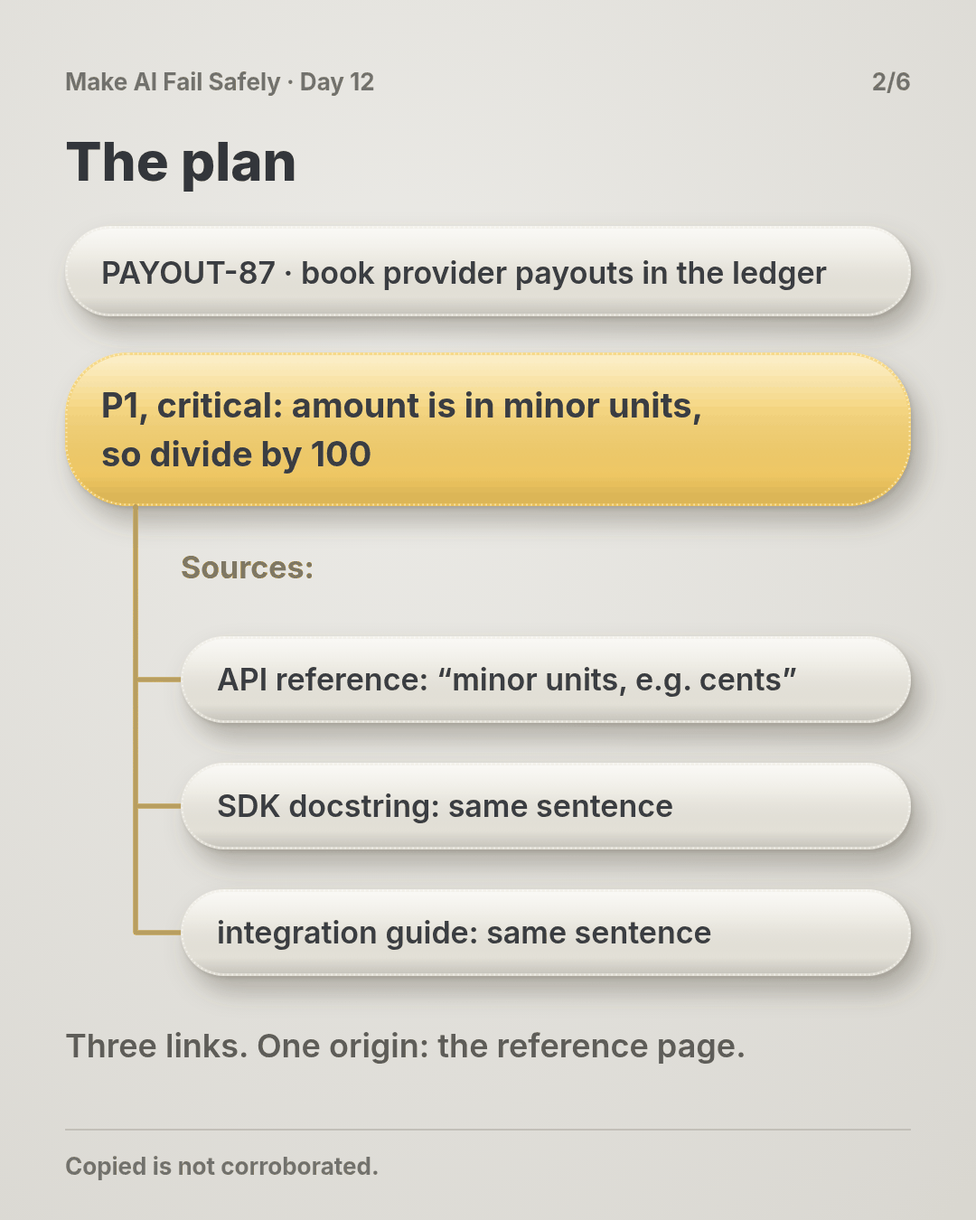
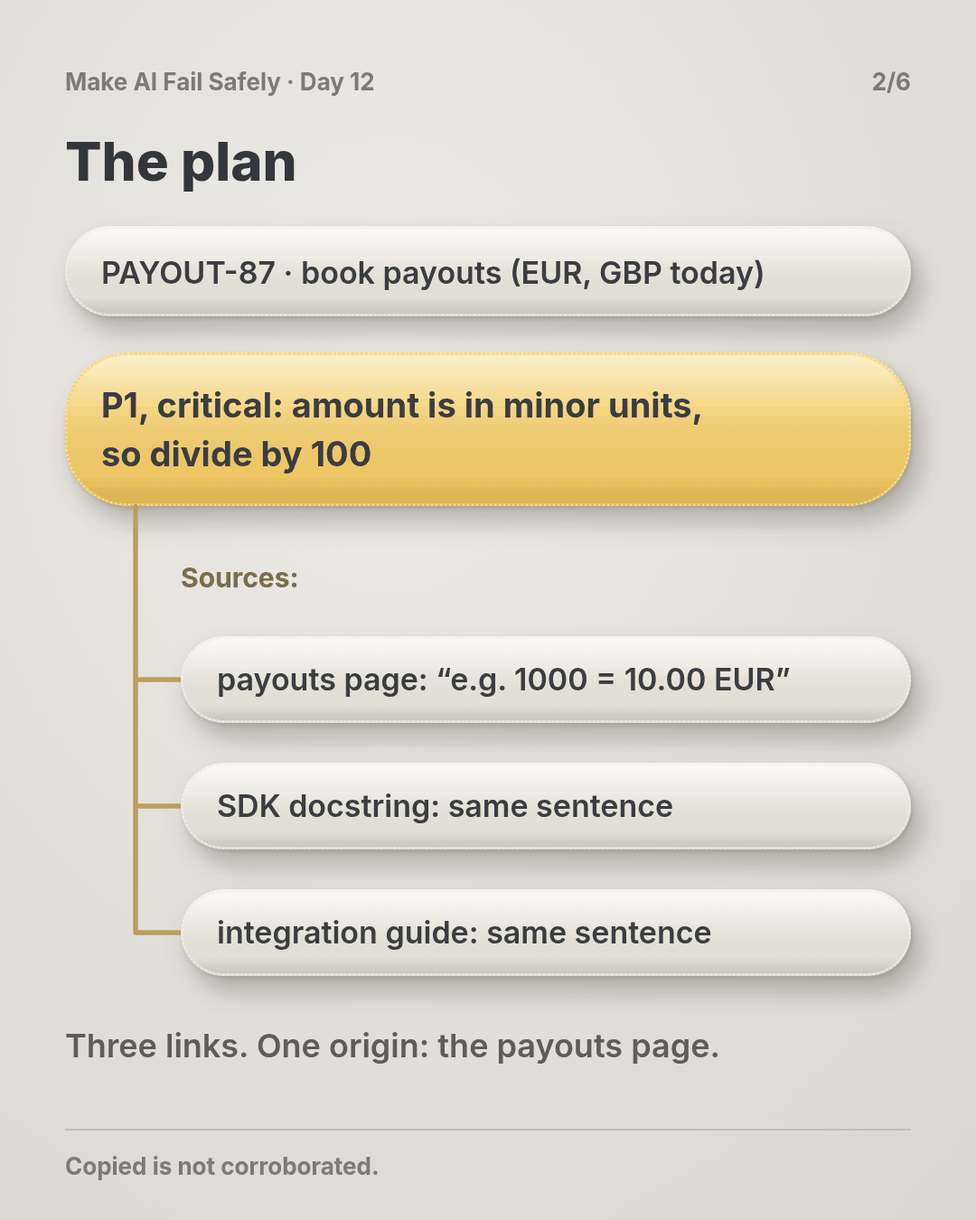
Day 12: review fixes (plausible story, 1/100 gap, system source, risk acceptance, no Day 6 echo)

diff --git a/courses/make-ai-fail-safely/practice/day-12-same-source-twice/corroborate.py b/courses/make-ai-fail-safely/practice/day-12-same-source-twice/corroborate.py
@@ -1,13 +1,16 @@
 #!/usr/bin/env python3
 """Corroboration check for critical premises: two sources count as two only if
-they have different origins, and at least one observed the real system.
+they have different origins, and at least one is output from the real system.
 
 Usage: python3 corroborate.py plan.json [premise_id]
 plan.json:
   {"premises": {"P1": {"claim": "...", "critical": true, "sources": [
       {"ref": "API reference /payouts", "origin": "provider API reference", "kind": "doc"},
-      {"ref": "sandbox payout po_3 response", "origin": "sandbox call", "kind": "observed"}]}}}
+      {"ref": "sandbox payout po_3 response", "origin": "sandbox call", "kind": "system"}]}}}
 "origin" is where the text or value ultimately came from, not where you read it.
+Optional "risk_accepted_by": "<name>" on a premise stands in for the system source
+when the system can't be checked safely. Origins are what you write down: the script
+counts them; deciding that two sources are really one is your job.
 Exit 0 if every checked premise passes, 1 otherwise. No dependencies.
 Failures print Day 9's shape: BLOCKED: <rule> | found: <...> | need: <...>
 """
@@ -18,12 +21,12 @@ def check(pid, p):
     if not p.get("critical"):
         return None if srcs else ("premise unsourced", f"{pid} has no source", "one source you can open")
     origins = {s.get("origin", "").strip().lower() for s in srcs if s.get("origin", "").strip()}
-    observed = [s for s in srcs if s.get("kind") == "observed"]
-    if len(origins) < 2:
+    system = [s for s in srcs if s.get("kind") == "system"]
+    if len(origins) < 2 and not p.get("risk_accepted_by"):
         o = ", ".join(sorted(origins)) or "none"
         return ("critical premise has one origin", f"{pid}: {len(srcs)} source(s), origin: {o}", "a source with a different origin")
-    if not observed:
-        return ("critical premise never observed", f"{pid}: {len(origins)} origins, all descriptions", "one observation of the real system")
+    if not system and not p.get("risk_accepted_by"):
+        return ("critical premise never checked in the system", f"{pid}: {len(origins)} origins, all docs", "one system output, or a named person accepting the risk")
     return None
 
 def main():
@@ -41,7 +44,12 @@ def main():
             ok = False
             print(f"{pid}: BLOCKED: {r[0]} | found: {r[1]} | need: {r[2]}")
         else:
-            print(f"{pid}: corroborated" if p.get("critical") else f"{pid}: sourced")
+            if not p.get("critical"):
+                print(f"{pid}: sourced")
+            elif p.get("risk_accepted_by"):
+                print(f"{pid}: risk accepted by {p['risk_accepted_by']} (not corroborated)")
+            else:
+                print(f"{pid}: corroborated")
     sys.exit(0 if ok else 1)
 
 if __name__ == "__main__":

diff --git a/courses/make-ai-fail-safely/day-12.md b/courses/make-ai-fail-safely/day-12.md
@@ -6,82 +6,82 @@
 
 Day 11 made a premise KNOWN on one source you can open. Today: when one isn't enough, what counts as a second.
 
-**A second source counts only if it could have disagreed.** For premises that move money or data, you or the agent will "double-check". The check usually finds more pages saying the same thing, and agreement feels like proof. But an SDK comment, an integration guide and a forum answer are often the same sentence copied from one place. Call that place the source's **origin**: where the words or the value first came from, not where you read them. Three sources with one origin are one source, read three times. You'll see a payout integration whose key premise had three matching sources and was still wrong for one currency, then the check that catches it: count origins, not links, and for a critical premise require one source that observed the real system.
+**A second source counts only if it could have disagreed.** For premises that move money or data, you or the agent will look for more sources. You'll usually find them, and agreement feels like proof. But an SDK comment, an integration guide and a forum answer are often one sentence copied from one page. Call that page the source's **origin**: where the words or the value first came from, not where you read them. Three sources with one origin are one source, read three times. You'll see a payout integration whose key premise had three matching sources and was still wrong for a currency added later, then the check that catches it: count origins, not links, and for a critical premise require one source from the real system.
 
 ## See it
 
 One premise. Two ways to confirm it.
 
-![Premise P1: payout amount is in minor units, divide by 100. Red path: three sources, API reference, SDK docstring, integration guide, all copied from one page; the JPY payout of 5,000 yen is booked as 50 yen. Green path: two origins, the doc plus a sandbox payout; JPY amount 5000 means 5,000 yen; divide by 10 to the currency's exponent.](./day-12.svg)
+![Premise P1: payout amount is in minor units, divide by 100. Red path: three sources, all copied from the payouts page; JPY payouts are booked at 1/100 of their value. Green path: two origins, the docs plus a real JPY payout; amount 5000 means 5,000 yen; use the currency's decimals.](./day-12.svg)
 
 ```mermaid
 flowchart TB
-  P["P1: amount in minor units, divide by 100"] --> L["Checked: 3 sources, 1 origin"]
-  P --> G["Checked: 2 origins, one observed"]
-  L --> W["JPY payout 5,000 yen booked as 50 yen"]
-  G --> S["Sandbox: JPY amount 5000 = 5,000 yen. Divide by 10^exponent."]
+  P["P1: amount in minor units, divide by 100"] --> L["Checked: 3 sources, 1 origin (payouts page)"]
+  P --> G["Checked: 2 origins, one from the real system"]
+  L --> W["JPY enabled later: every payout booked at 1/100"]
+  G --> S["Sandbox JPY payout: 5000 = 5,000 yen. Use the currency's decimals."]
 ```
 
 ```text
-P1  payout amount is in minor units, divide by 100       critical
-    API reference /payouts      origin: provider API reference   doc
-    SDK docstring Payout.amount origin: provider API reference   doc
-    integration guide, step 4   origin: provider API reference   doc
-    -> 3 sources, 1 origin, 0 observed: BLOCKED
+P1  payout amount is in minor units, divide by 100        critical
+    payouts page: "minor units, e.g. 1000 = 10.00 EUR"   origin: payouts page   doc
+    SDK docstring Payout.amount                         origin: payouts page   doc
+    integration guide, step 4                           origin: payouts page   doc
+    -> 3 sources, 1 origin, 0 from the system: BLOCKED
 ```
 
 ## Story
 
 You pick up a ticket and paste it into your agent in full:
 
-> **PAYOUT-87: Book provider payouts in the ledger.** Our payment provider pays out daily per currency (EUR, GBP, JPY). Poll `GET /payouts`, and for each new payout write a ledger entry with the amount in major units (euros, pounds, yen) so finance can match it to the bank statement. Premises that move money are critical: confirm them with more than one source.
+> **PAYOUT-87: Book provider payouts in the ledger.** Our payment provider pays out daily, one payout per currency. Poll `GET /payouts` and, for each new payout, write a ledger entry with the amount in major units (euros, pounds) so finance can match it to the bank statement. Cover every currency our account is paid out in; today that's EUR and GBP. Payout amounts must match the bank statement to the unit.
 
-The agent plans, and lists premises the way your team now does (illustrative):
+The agent plans, marking P1 as critical because it decides an amount (illustrative):
 
 ```text
 P1 | payout amount is in minor units, divide by 100 | KNOWN | critical
-   sources: API reference /payouts ("amount in minor units, e.g. cents"),
+   sources: payouts page ("amount: integer, in minor units, e.g. 1000 = 10.00 EUR"),
             SDK docstring Payout.amount, integration guide step 4. All agree.
 T1 Poll /payouts   T2 Convert amount   T3 Write ledger entry   needs: P1
 ```
 
-Three sources, all openable, all agreeing. You approve. EUR and GBP work in the sandbox.
+Three sources, all openable, all agreeing. You approve. EUR and GBP payouts match the bank to the cent, and the tests cover both.
 
-Then the first JPY payout arrives: 5,000 yen. The provider sends `"amount": 5000`, because the yen has no smaller unit; its smallest unit is the yen itself. The code divides by 100 and books **50 yen**. Finance's bank match shows a 4,950 yen gap on every JPY payout. We ran payouts shaped like the provider's responses through the agent's conversion: EUR `125000` gives 1250.0, GBP `48050` gives 480.5, JPY `5000` gives 50.0.
+A month later, finance turns on JPY payouts. Nobody touches the code: the ticket said "every currency". The first JPY payout is 5,000 yen, and the provider sends `"amount": 5000`, because the yen has no smaller unit. The code divides by 100 and books **50 yen**. Every JPY payout from now on is booked at 1/100 of its value; this one leaves a 4,950 yen gap. We ran payouts shaped like the provider's responses through the agent's conversion: EUR `125000` gives 1250.0, GBP `48050` gives 480.5, JPY `5000` gives 50.0.
 
-None of the three sources was wrong. The reference says "minor units, e.g. cents", and the yen's minor unit is the yen. The SDK docstring and the guide copied that sentence word for word. The agent's reading, "divide by 100", was the error, and every "source" was the same sentence, so none could catch it. **They agreed because they were one source.**
+None of the sources was wrong. The provider also has a Currencies page listing zero-decimal currencies like JPY. But the SDK docstring and the guide both copy the payouts sentence, so all three sources came from one page, and the page that would have disagreed was never cited. **They agreed because they were one source.**
 
 **What breaks the loop.** For a critical premise, trace each source to its origin and count those, not the links:
 
-- **Same origin, one vote.** The SDK comment and the guide both quote the reference: one origin.
-- **One observation of the real system.** A sandbox call, a recorded production response, a row in your own database. It shares no text with the docs, so it can disagree.
-- **Enough is two origins, one of them observed.** Short of that, the premise stays blocked, and tasks that need it don't start:
+- **Same origin, one vote.** The SDK comment and the guide both quote the payouts page: one origin.
+- **One source from the real system.** A sandbox call, a recorded production response, a row in your own database: something the system produced, not something written about it. It shares no text with the docs, so it can disagree.
+- **Enough is two origins, one from the system.** Short of that, the premise stays blocked, and tasks that need it don't start:
 
 ```text
-BLOCKED: critical premise has one origin | found: P1: 3 source(s), origin: provider API reference | need: a source with a different origin
+BLOCKED: critical premise has one origin | found: P1: 3 source(s), origin: payouts page | need: a source with a different origin
 ```
 
-One sandbox JPY payout settles it: `amount: 5000` for 5,000 yen. P1 is rewritten as "amount is in the currency's smallest unit; divide by 10 to the power of its decimals (JPY 0, EUR 2)", with both origins listed. We ran the check on both versions of P1 and the fixed conversion on all three payouts (the script is in the practice folder).
+The useful system source is the case most likely to differ. One sandbox JPY payout, before JPY goes live, settles it: `amount: 5000` for 5,000 yen. P1 is rewritten as "amount is in the currency's smallest unit; divide by 10 to the power of its decimals (JPY 0, EUR 2)", with both origins listed, and the Currencies page added. We ran the check on both versions of P1 and the fixed conversion on all three payouts (the script is in the practice folder).
 
 ## Why it happens
 
 1. **Agreement feels like confirmation.** Three links saying the same thing look like a consensus. You count voices without asking whether they're one voice.
 
-2. **Copies are everywhere.** SDKs, guides, blog posts and model answers are built from the same reference. A search returns that page many times over in different clothes.
+2. **Copies are everywhere.** SDKs, guides and blog posts are built from the same reference page. A search returns that page many times over in different clothes.
 
-3. **"Double-check" means "search again".** Asked to confirm, an agent looks for more text, and more text is mostly more copies.
+3. **Search ranks the most-copied page first.** Asked to confirm, an agent searches, and the page everyone quotes is what comes back. The page that would disagree is less linked.
 
-4. **The error is in the reading, not the text.** A correct sentence read wrongly stays wrong no matter how many times you read it. Only something that isn't that sentence can disagree.
+4. **The error is in the reading.** "Divide by 100" is a reasonable reading of "e.g. 1000 = 10.00 EUR". Every copy of that sentence supports it equally.
 
-5. **The happy currencies hide it.** EUR and GBP both have two decimals, so "divide by 100" passes every test you'd think to write first.
+5. **The premise outlives the ticket.** It was true for every currency the tests knew about. When a new currency arrives, nothing re-checks it.
 
 **Trap in one line:** three sources that agree feel like proof, but if they share an origin, the agreement was guaranteed.
 
-**Not useful fixes:** "Find more sources." You'll find more copies. "Ask another model to confirm." It learned from the same docs. "Use the official SDK." Its docstring is the same sentence. "Read the docs more carefully." The docs were right; you need something that can disagree with your reading.
+**Not useful fixes:** "Cite the official SDK too." Its docstring is the payouts sentence. "Pick the most authoritative source." Authority doesn't help when your reading is the problem; you need something that can disagree. "Add a test per currency." Only for the currencies you thought of; JPY arrived later. "Read the docs more carefully." Which page? The one that disagreed was never in the list.
 
 ## Rule
 
-**For a critical premise, count origins, not sources. It's confirmed only when two different origins agree and at least one observed the real system.**
+**For a critical premise, count origins, not sources. It's confirmed only when two different origins agree and one of them is the real system. If the system can't be checked safely, a named person accepts the risk in the plan.**
 
 Day 1: finished-sounding is not verified. Day 2: complete-looking is not decided by you. Day 3: agreed earlier is not still in force. Day 4: remembered is not obeyed. Day 5: agreed with is not confirmed. Day 6: reported is not observed. Day 7: known then is not true now. Day 8: self-graded is not passed. Day 9: worked around is not solved. Day 10: parsed is not valid. Day 11: flagged is not gated. Day 12: **copied is not corroborated.**
 
@@ -94,32 +94,33 @@ Day 1: finished-sounding is not verified. Day 2: complete-looking is not decided
 1. **Mark which premises are critical.** *"Mark critical any premise that decides an amount, a destination or a deletion."*
    **Why this helps:** Corroboration costs a lookup. Spend it where a wrong premise moves money or data.
 
-2. **Ask for the origin of every source.** *"For each source, name where its text or value first came from."*
-   **Why this helps:** Most copies admit it when asked: "quoted from the API reference". Then you can count.
+2. **Ask for the origin of every source.** *"For each source, name the page or system its text or value first came from."*
+   **Why this helps:** Most copies admit it when asked: "quoted from the payouts page". Then you can count.
 
-3. **Require one observation.** *"For a critical premise, include one source that observed the real system: a sandbox call, a recorded response, a query."*
-   **Why this helps:** An observation shares no words with the docs, so it's the one source that can disagree with your reading.
+3. **Require one source from the real system.** *"For a critical premise, include one thing the system produced: a sandbox call, a recorded response, a query."*
+   **Why this helps:** System output shares no words with the docs, so it's the one source that can disagree with your reading.
 
-4. **Pick the case that would differ.** *"Observe the case most likely to break the premise."*
-   **Why this helps:** An EUR payout agrees with both readings. A JPY payout doesn't, so it's the one worth observing.
+4. **Pick the case that would differ.** *"Check the case most likely to break the premise, including ones not live yet."*
+   **Why this helps:** A EUR payout agrees with both readings. A JPY payout doesn't, so it's the one worth checking.
 
 **Copy-paste prompt** (add after your ticket):
 
 ```text
-For each premise, list its sources as: ref | origin | doc or observed.
-Origin is where the text or value first came from, not where you read it.
+For each premise, list its sources as: ref | origin | doc or system.
+Origin is the page or system the text or value first came from, not where you read it.
 Mark critical any premise that decides an amount, a destination or a deletion.
-A critical premise is confirmed only with two different origins, one observed:
-a sandbox call, a recorded response or a query, on the case most likely to differ.
+A critical premise is confirmed only with two different origins, one of them system output
+(a sandbox call, a recorded response or a query) on the case most likely to differ.
+If the system can't be checked safely, say so and name who must accept the risk.
 Until then, don't start tasks that need it. Reply:
-BLOCKED: critical premise has one origin | found: <premise, sources, origin> | need: <the observation>
+BLOCKED: critical premise has one origin | found: <premise, sources, origin> | need: <the system check>
 ```
 
-**Limit:** Two origins can still share a mistake: a sandbox that differs from production, or a database written by your own buggy code. Prefer an observation of the system that actually pays, and note which environment it came from.
+**Limit:** Origins are what you write down; deciding that two sources are really one is your job, and the script only counts. Two origins can still share a mistake: a sandbox that differs from production, a sandbox that doesn't support the case, or a database written by your own code. Prefer output from the system that actually pays, and note which environment it came from.
 
 ## Fit it into your workflow
 
-Your flow is spec → plan → tasks → implement, in Kiro, Claude Code, Cursor, or similar. Keep the premise table in the plan file, and add two columns: `origin`, and `doc` or `observed`. Mark critical premises in the spec. Add one line to your project rules: a task needing a critical premise doesn't start until it has two origins, one observed. The observation itself is often a small first task: one sandbox call whose response is saved next to the plan.
+Your flow is spec → plan → tasks → implement, in Kiro, Claude Code, Cursor, or similar. Keep the premise table in the plan file, and add two columns: `origin`, and `doc` or `system`. Mark critical premises in the spec. Add one line to your project rules: a task needing a critical premise doesn't start until it has two origins, one from the system, or a named person has accepted the risk. The system check itself is often a small first task: one sandbox call whose response is saved next to the plan.
 
 On a big requirement: list the critical premises once at the spec level; most tasks share the same two or three.
 
@@ -130,17 +131,17 @@ On a big requirement: list the critical premises once at the spec level; most ta
 1. **List every source** you or the agent used for it.
 2. **Trace each to its origin.** Open it and find where its words came from. Count distinct origins.
 3. **Pick the case most likely to differ** (another currency, an empty value, the oldest record).
-4. **Observe it.** One sandbox call, one recorded response or one query. Save the output.
+4. **Check it in the system.** One sandbox call, one recorded response or one query. Save the output.
 5. **Compare** with the premise as written. Same, or different?
 
-**Done when:** you've written down the origin count for the premise, and you have one saved observation of the case most likely to differ.
+**Done when:** you've written down the origin count for the premise, and you have one saved system output for the case most likely to differ.
 
 ## Carry to next day
 
 | Keep this | Day 13 builds on it |
 |-----------|-------------------|
-| Log one line: `premise \| <claim> \| sources: <n> \| origins: <n> \| observed: <case> \| held/broke` | Today the evidence is real. Day 13 asks whether the person approving actually sees it, or clicks "approve" past it |
-| Add `origin` and `doc`/`observed` columns to your premise table | |
+| Log one line: `premise \| <claim> \| sources: <n> \| origins: <n> \| system: <case> \| held/broke` | Today the evidence is real. Day 13 asks whether the person approving actually sees it, or clicks "approve" past it |
+| Add `origin` and `doc`/`system` columns to your premise table | |
 | Agreeing sources are **a question**: where did they all come from? | |
 
 ## Check yourself
@@ -149,8 +150,8 @@ Close the page. Answer without looking:
 
 1. Three sources agreed on "divide by 100". Why didn't that count as confirmation?
 2. What is a source's origin?
-3. Why does a critical premise need one observed source?
-4. Which payout would you observe first, and why that one?
+3. Why does a critical premise need one source from the real system?
+4. Which payout would you check in the system first, and why that one?
 
 Stuck on any → re-read **What you'll learn**, **Story**, and **Ask first** once → answer again. Being able to say it back is the bar — not "I get it."
 
@@ -159,6 +160,6 @@ Stuck on any → re-read **What you'll learn**, **Story**, and **Ask first** onc
 ## Day 12 in 6 slides (optional)
 
 <table>
-<tr><td><a href="./assets/day-12/slide-1.png"><img src="./assets/day-12/slide-1.png" width="240" alt="1/6: Three sources agreed that payout amounts divide by 100. They were one source."></a></td><td><a href="./assets/day-12/slide-2.png"><img src="./assets/day-12/slide-2.png" width="240" alt="2/6: PAYOUT-87 plan: critical premise P1 backed by three links copied from one page."></a></td><td><a href="./assets/day-12/slide-3.png"><img src="./assets/day-12/slide-3.png" width="240" alt="3/6: A 5,000 yen payout arrives as 5000 and is booked as 50 yen."></a></td></tr>
-<tr><td><a href="./assets/day-12/slide-4.png"><img src="./assets/day-12/slide-4.png" width="240" alt="4/6: Blocked on one origin; a sandbox JPY payout is observed; divide by the currency exponent."></a></td><td><a href="./assets/day-12/slide-5.png"><img src="./assets/day-12/slide-5.png" width="240" alt="5/6: Mark critical premises in the spec; check origins before tasks; observe as a first task."></a></td><td><a href="./assets/day-12/slide-6.png"><img src="./assets/day-12/slide-6.png" width="240" alt="6/6: Rule: copied is not corroborated. Same origin, one vote."></a></td></tr>
+<tr><td><a href="./assets/day-12/slide-1.png"><img src="./assets/day-12/slide-1.png" width="240" alt="1/6: Three sources agreed that payout amounts divide by 100. They were one source."></a></td><td><a href="./assets/day-12/slide-2.png"><img src="./assets/day-12/slide-2.png" width="240" alt="2/6: PAYOUT-87 plan: critical premise P1 backed by three links copied from one page."></a></td><td><a href="./assets/day-12/slide-3.png"><img src="./assets/day-12/slide-3.png" width="240" alt="3/6: JPY enabled later; 5,000 yen arrives as 5000 and is booked as 50 yen."></a></td></tr>
+<tr><td><a href="./assets/day-12/slide-4.png"><img src="./assets/day-12/slide-4.png" width="240" alt="4/6: Blocked on one origin; a sandbox JPY payout is checked; use the currency's decimals."></a></td><td><a href="./assets/day-12/slide-5.png"><img src="./assets/day-12/slide-5.png" width="240" alt="5/6: Mark critical premises in the spec; check origins before tasks; one system check first."></a></td><td><a href="./assets/day-12/slide-6.png"><img src="./assets/day-12/slide-6.png" width="240" alt="6/6: Rule: copied is not corroborated. Same origin, one vote."></a></td></tr>
 </table>

diff --git a/courses/make-ai-fail-safely/practice/day-12-same-source-twice/SKILL.md b/courses/make-ai-fail-safely/practice/day-12-same-source-twice/SKILL.md
@@ -1,27 +1,28 @@
 ---
 name: same-source-twice
-description: Day 12 practice — copied is not corroborated. For a premise that moves money or data, "double-checking" usually finds more copies of one page, so agreement proves nothing. Trace each source to its origin (where the words or value first came from), count origins not links, and confirm a critical premise only with two different origins, one of them an observation of the real system.
+description: Day 12 practice — copied is not corroborated. For a premise that moves money or data, more sources usually means more copies of one page, so agreement proves nothing. Trace each source to its origin (the page or system its words or value first came from), count origins not links, and confirm a critical premise only with two different origins, one of them output from the real system, or a named person accepting the risk.
 ---
 
 # Same source twice
 
-A payout integration assumes "amount is in minor units, divide by 100". Three sources agree: the API reference, the SDK docstring, the integration guide. All three are the same sentence. The first JPY payout, 5,000 yen, arrives as `amount: 5000` and is booked as 50 yen.
+A payout integration assumes "amount is in minor units, divide by 100". Three sources agree: the payouts page ("e.g. 1000 = 10.00 EUR"), the SDK docstring, the integration guide. All three copy the payouts page; the Currencies page listing zero-decimal currencies was never cited. When JPY is enabled later, 5,000 yen arrives as `amount: 5000` and is booked as 50 yen, and every JPY payout is booked at 1/100.
 
 Copied is not corroborated. Same origin, one vote; and one vote must come from the real system.
 
 ## Part A — Ask (paste after your ticket)
 
 ```
-For each premise, list its sources as: ref | origin | doc or observed.
-Origin is where the text or value first came from, not where you read it.
+For each premise, list its sources as: ref | origin | doc or system.
+Origin is the page or system the text or value first came from, not where you read it.
 Mark critical any premise that decides an amount, a destination or a deletion.
-A critical premise is confirmed only with two different origins, one observed:
-a sandbox call, a recorded response or a query, on the case most likely to differ.
+A critical premise is confirmed only with two different origins, one of them system output
+(a sandbox call, a recorded response or a query) on the case most likely to differ.
+If the system can't be checked safely, say so and name who must accept the risk.
 Until then, don't start tasks that need it. Reply:
-BLOCKED: critical premise has one origin | found: <premise, sources, origin> | need: <the observation>
+BLOCKED: critical premise has one origin | found: <premise, sources, origin> | need: <the system check>
 ```
 
-**In an orchestrated flow** (spec → plan → tasks → implement): add `origin` and `doc`/`observed` columns to the premise table in the plan; mark critical premises in the spec; make the observation a small first task and save its output next to the plan.
+**In an orchestrated flow** (spec → plan → tasks → implement): add `origin` and `doc`/`system` columns to the premise table in the plan; mark critical premises in the spec; make the system check a small first task and save its output next to the plan.
 
 ## Part B — Check (you do this)
 
@@ -32,14 +33,14 @@ python3 corroborate.py plan.json       # every premise
 python3 corroborate.py plan.json P1    # one; exit 0 passes, 1 blocked or unknown id
 ```
 
-On the example: `P1: BLOCKED: critical premise has one origin | found: P1: 3 source(s), origin: provider api reference | need: a source with a different origin`. Add one observed source (a sandbox JPY payout) and P1 passes.
+On the example: `P1: BLOCKED: critical premise has one origin | found: P1: 3 source(s), origin: payouts page | need: a source with a different origin`. Add one system source (a sandbox JPY payout) and P1 passes. If the system can't be checked safely, `"risk_accepted_by": "<name>"` records who accepted the risk.
 
 1. **Open each source and find its origin.** "Quoted from", "see the reference", identical wording: same origin.
-2. **Observe the case most likely to differ,** not the easy one.
-3. **Note the environment** of the observation: sandbox and production can differ.
+2. **Check the case most likely to differ in the system,** including currencies or cases not live yet.
+3. **Note the environment** of the system output: sandbox and production can differ.
 
-**Limit:** two origins can share a mistake (a sandbox unlike production, a database your own code wrote). Prefer observing the system that actually pays.
+**Limit:** the script counts the origins you write down; deciding two sources are one is your job. Two origins can share a mistake (a sandbox unlike production, a database your own code wrote). Prefer output from the system that actually pays.
 
-**Done when:** a critical premise has two origins written down, and you've saved one observation of the case most likely to differ.
+**Done when:** a critical premise has two origins written down, and you've saved one system output for the case most likely to differ.
 
 Lesson: [Day 12 — Same Source Twice](../../day-12.md)

diff --git a/courses/make-ai-fail-safely/README.md b/courses/make-ai-fail-safely/README.md
@@ -122,9 +122,9 @@ Each day = **title · failure · mechanism · 10-min exercise**. Skip anything t
 
 | | |
 |--|--|
-| **Failure** | A critical premise is "double-checked" and three sources agree, but all three copy one page ("amount in minor units, divide by 100"; a 5,000 yen payout arrives as 5000 and is booked as 50 yen) |
-| **Mechanism** | Agreement feels like confirmation, copies are everywhere, "double-check" means search again, and a wrong reading of a correct sentence survives every copy. Fix: trace each source to its origin, count origins not links; a critical premise needs two origins, one an observation of the real system on the case most likely to differ |
-| **Exercise** | Pick one money-moving premise; trace its sources to origins; observe the case most likely to differ; compare with the premise as written |
+| **Failure** | A critical premise has three agreeing sources, but all three copy one page ("minor units, e.g. 1000 = 10.00 EUR", read as divide by 100); when JPY is enabled later, every JPY payout is booked at 1/100 of its value |
+| **Mechanism** | Agreement feels like confirmation, copies are everywhere, search ranks the most-copied page first, and a wrong reading survives every copy. Fix: trace each source to its origin, count origins not links; a critical premise needs two origins, one of them output from the real system on the case most likely to differ, or a named person accepting the risk |
+| **Exercise** | Pick one money-moving premise; trace its sources to origins; check the case most likely to differ in the system; compare with the premise as written |
 
 ### Day 13 — Human Gates That Aren't Theater
 
